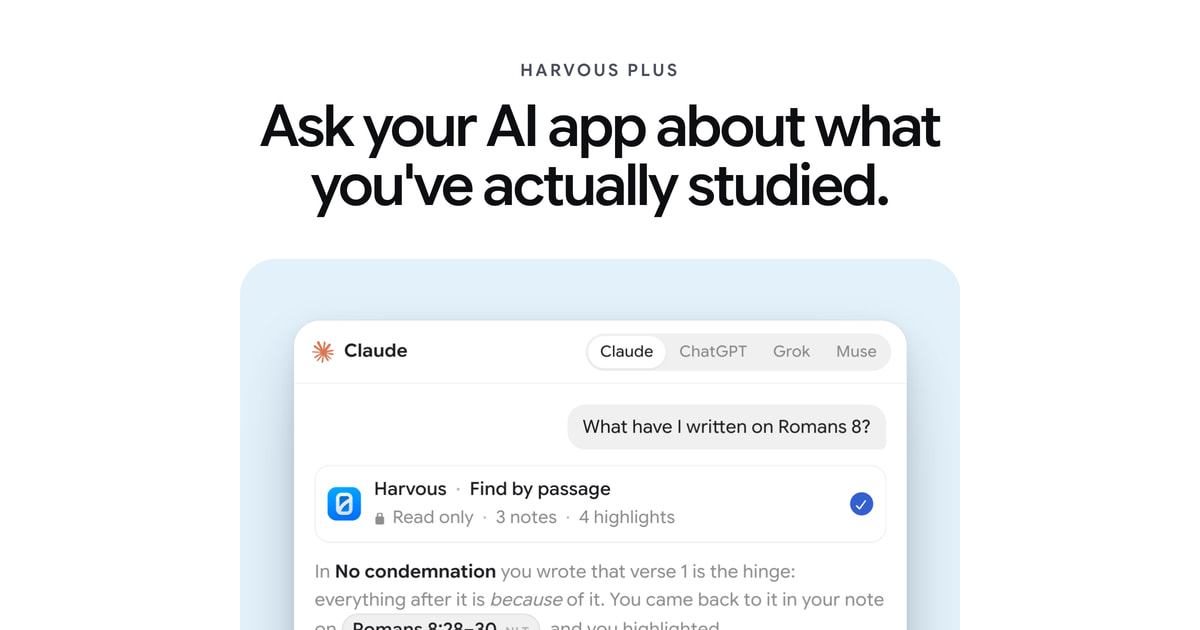
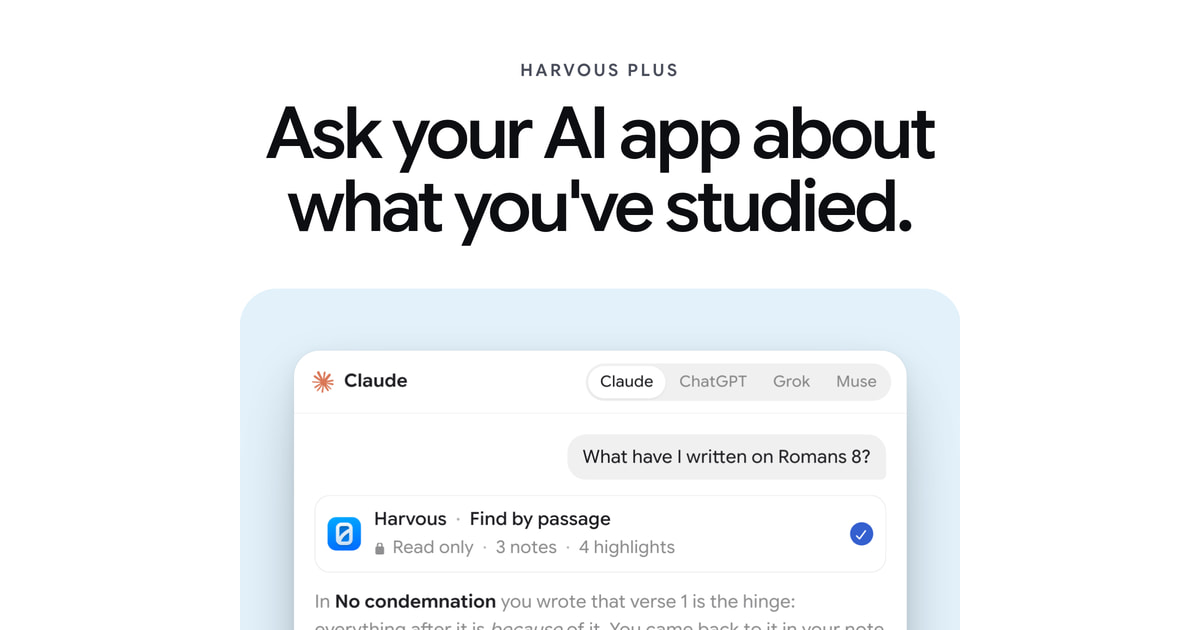
Feature titles: back to full display size, copy trimmed to two lines
Restores the big hero size and instead shortens the ten titles that ran past
two lines (about 44 characters at 72px), e.g. "Type the reference. The verse
comes with it." Every feature and add-on title now sits on at most two lines on
desktop. Regenerated the OG cards that photograph those pages.

diff --git a/src/lib/addons-data.ts b/src/lib/addons-data.ts
@@ -21,7 +21,7 @@ const ADDON_PAGES: AddonPage[] = [
     ink: "var(--study-dock-accent-coralRose)",
     image: "/images/auth-hero/ai_bg_045.webp",
     comingSoon: false,
-    heroTitle: "A shared space where your whole group can study together.",
+    heroTitle: "One space where your group studies together.",
     heroLead:
       "You lead the discussion. Your group has realizations out loud. Shared Spaces keep what you build together — in threads that live beyond the hour you meet.",
     sections: [
@@ -110,7 +110,7 @@ const ADDON_PAGES: AddonPage[] = [
     ink: "var(--study-dock-accent-violet)",
     image: "/images/auth-hero/ai_bg_075.webp",
     comingSoon: false,
-    heroTitle: "A deliberate way to hold onto what you've studied.",
+    heroTitle: "A deliberate way to keep what you studied.",
     heroLead:
       "Suggestions brings things back when they happen to be worth another look. Review exercises are the version you ask for — a short question drawn from what you actually wrote, kept, or read, with an answer Harvous can check.",
     sections: [
@@ -199,7 +199,7 @@ const ADDON_PAGES: AddonPage[] = [
     ink: "var(--study-dock-accent-neutral)",
     image: "/images/auth-hero/ai_bg_053.webp",
     comingSoon: false,
-    heroTitle: "Ask your AI app about what you've actually studied.",
+    heroTitle: "Ask your AI app about what you've studied.",
     heroLead:
       "Claude, ChatGPT, and other AI apps can read your Harvous notes, so they answer from what you wrote, not a guess. They can start a new note when you ask, and never change what's already there.",
     sections: [
